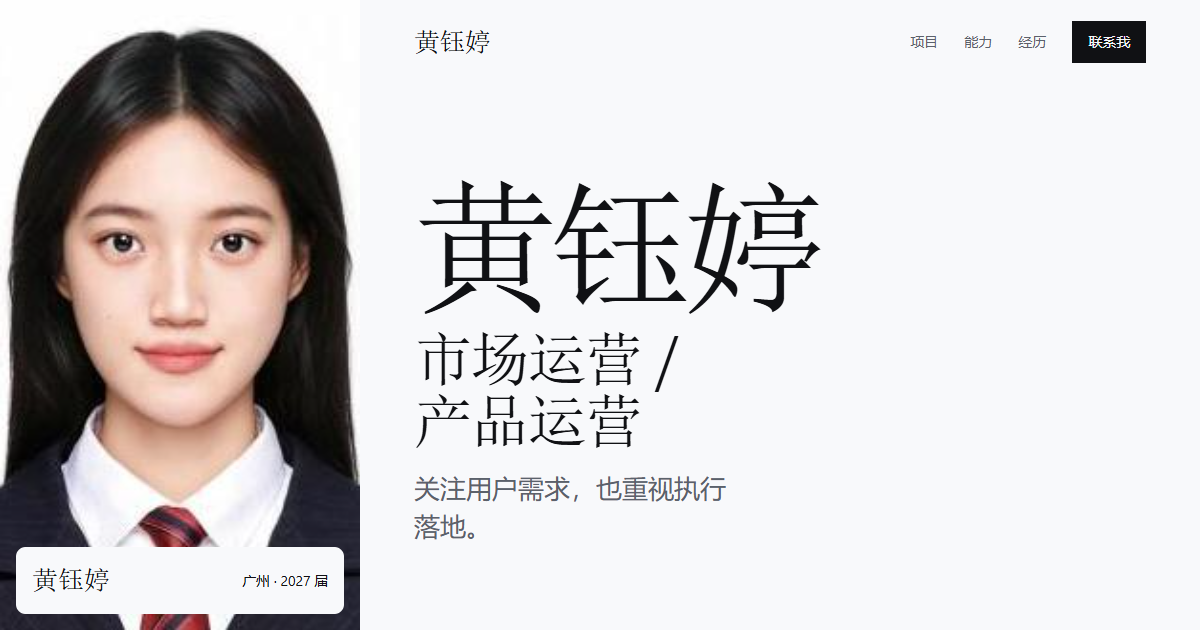
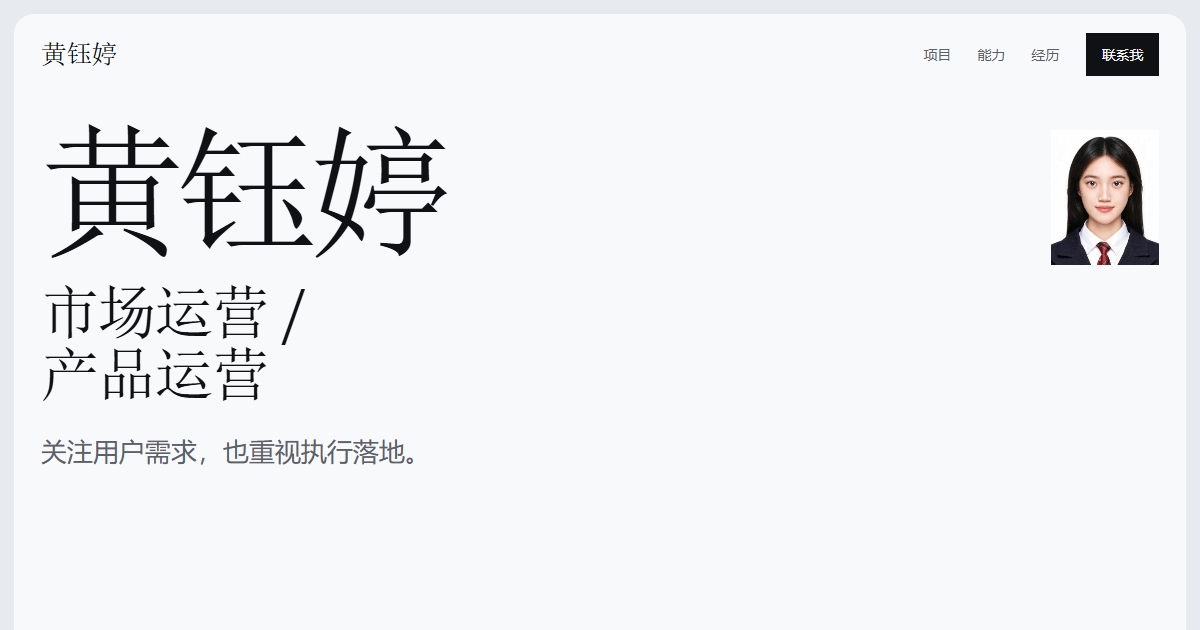
Use single small portrait and add email action

diff --git a/styles.css b/styles.css
@@ -106,78 +106,13 @@ figure {
 }
 
 .site {
-  display: grid;
-  grid-template-columns: minmax(250px, 0.6fr) minmax(0, 1.4fr);
-  gap: var(--gap);
-  width: min(calc(100% - (var(--margin) * 2)), 1760px);
+  display: block;
+  width: min(calc(100% - (var(--margin) * 2)), 74rem);
   margin: var(--margin) auto;
-  align-items: start;
-}
-
-.visual-panel {
-  position: sticky;
-  top: var(--margin);
-  overflow: clip;
-  height: calc(100svh - (var(--margin) * 2));
-  min-height: 34rem;
-  border-radius: var(--radius);
-  background: var(--surface);
-}
-
-.scene-stack,
-.scene {
-  position: absolute;
-  inset: 0;
-}
-
-.scene {
-  opacity: 0;
-  transition: opacity 1200ms var(--ease-out);
-}
-
-.scene.is-active {
-  opacity: 1;
-}
-
-.scene img {
-  width: 100%;
-  height: 100%;
-  object-fit: cover;
-  object-position: center 18%;
-}
-
-.scene:nth-child(2) img,
-.scene:nth-child(3) img {
-  object-position: center 34%;
-}
-
-.scene:nth-child(4) img {
-  object-position: center 42%;
-}
-
-.visual-caption {
-  position: absolute;
-  right: 1rem;
-  bottom: 1rem;
-  left: 1rem;
-  z-index: 2;
-  display: flex;
-  align-items: center;
-  justify-content: space-between;
-  gap: 1rem;
-  padding: 0.85rem 1rem;
-  border-radius: 0.6rem;
-  background: var(--panel);
-  color: var(--ink);
-  font-size: var(--step-small);
-}
-
-.visual-caption span:first-child {
-  font-family: var(--font-display);
-  font-size: var(--step-lead);
 }
 
 .reading-panel {
+  width: 100%;
   min-width: 0;
   overflow: visible;
   border-radius: var(--radius);
@@ -248,14 +183,23 @@ figure {
 }
 
 .hero {
-  display: flex;
+  display: grid;
+  grid-template-columns: minmax(0, 1fr) clamp(6.5rem, 9vw, 8.5rem);
+  grid-template-areas:
+    "name portrait"
+    "title portrait"
+    "summary portrait"
+    "actions portrait"
+    "proof proof"
+    "location location";
+  column-gap: clamp(1.5rem, 4vw, 3.5rem);
+  align-items: start;
   min-height: calc(100svh - 10rem);
-  flex-direction: column;
-  justify-content: center;
   padding: clamp(4rem, 10vh, 7rem) 0 clamp(4rem, 8vh, 6rem);
 }
 
 .hero-name {
+  grid-area: name;
   font-family: var(--font-display);
   font-size: var(--step-display);
   font-weight: 500;
@@ -264,6 +208,7 @@ figure {
 }
 
 .hero h1 {
+  grid-area: title;
   overflow: clip;
   max-width: 12ch;
   margin-top: 1rem;
@@ -275,7 +220,23 @@ figure {
   text-wrap: balance;
 }
 
+.hero-portrait {
+  grid-area: portrait;
+  width: 100%;
+  overflow: clip;
+  background: var(--surface);
+}
+
+.hero-portrait img {
+  width: 100%;
+  height: auto;
+  aspect-ratio: 4 / 5;
+  object-fit: cover;
+  object-position: center top;
+}
+
 .hero-summary {
+  grid-area: summary;
   max-width: 28ch;
   margin-top: 1rem;
   color: var(--muted);
@@ -285,6 +246,7 @@ figure {
 }
 
 .hero-actions {
+  grid-area: actions;
   display: flex;
   flex-wrap: wrap;
   align-items: center;
@@ -339,6 +301,7 @@ figure {
 }
 
 .proof {
+  grid-area: proof;
   display: grid;
   grid-template-columns: repeat(3, minmax(0, 1fr));
   gap: 1.5rem;
@@ -363,6 +326,7 @@ figure {
 }
 
 .hero-location {
+  grid-area: location;
   margin-top: 2rem;
   color: var(--muted);
   font-size: var(--step-small);
@@ -659,13 +623,6 @@ figure {
     animation-delay: 450ms;
   }
 
-  @supports (animation-timeline: view()) {
-    .visual-panel img {
-      animation: image-drift linear both;
-      animation-timeline: view();
-      animation-range: entry 0% exit 100%;
-    }
-  }
 }
 
 @keyframes content-rise {
@@ -679,30 +636,10 @@ figure {
   }
 }
 
-@keyframes image-drift {
-  from {
-    transform: scale(1.01) translateY(-1.5%);
-  }
-  to {
-    transform: scale(1.03) translateY(1.5%);
-  }
-}
-
 @media (max-width: 980px) {
   .site {
     display: block;
     width: min(calc(100% - (var(--margin) * 2)), 54rem);
-  }
-
-  .visual-panel {
-    position: relative;
-    top: auto;
-    height: 38svh;
-    min-height: 19rem;
-  }
-
-  .reading-panel {
-    margin-top: var(--gap);
   }
 
   .hero {
@@ -783,20 +720,16 @@ figure {
     padding: 0.75rem 1rem;
   }
 
-  .visual-panel {
-    height: 30svh;
-    min-height: 15.5rem;
-  }
-
-  .visual-caption {
-    right: 0.75rem;
-    bottom: 0.75rem;
-    left: 0.75rem;
-    padding: 0.7rem 0.8rem;
-  }
-
   .hero {
+    display: flex;
+    flex-direction: column;
     padding: 4.5rem 0 5.5rem;
+  }
+
+  .hero-portrait {
+    order: -1;
+    width: clamp(4.75rem, 24vw, 6.25rem);
+    margin-bottom: 1.5rem;
   }
 
   .hero-summary {
@@ -897,7 +830,6 @@ figure {
 }
 
 @media print {
-  .visual-panel,
   .topbar,
   .hero-actions,
   .toast {

diff --git a/index.html b/index.html
@@ -25,27 +25,6 @@
   <a class="skip-link" href="#main-content">跳到主要内容</a>
 
   <div class="site">
-    <aside class="visual-panel" aria-label="黄钰婷的照片">
-      <div class="scene-stack">
-        <figure class="scene is-active" data-photo="hero">
-          <img src="assets/portrait.jpg" alt="黄钰婷的个人照片" width="256" height="329" fetchpriority="high">
-        </figure>
-        <figure class="scene" data-photo="face" aria-hidden="true">
-          <img src="assets/portrait-face.jpg" alt="" width="640" height="800" loading="lazy">
-        </figure>
-        <figure class="scene" data-photo="tie" aria-hidden="true">
-          <img src="assets/portrait-tie.jpg" alt="" width="640" height="800" loading="lazy">
-        </figure>
-        <figure class="scene" data-photo="lapel" aria-hidden="true">
-          <img src="assets/portrait-lapel.jpg" alt="" width="640" height="800" loading="lazy">
-        </figure>
-      </div>
-      <div class="visual-caption">
-        <span>黄钰婷</span>
-        <span>广州 · 2027 届</span>
-      </div>
-    </aside>
-
     <div class="reading-panel">
       <header class="topbar">
         <a class="wordmark" href="#home">黄钰婷</a>
@@ -61,9 +40,12 @@
       </header>
 
       <main id="main-content">
-        <section class="hero" id="home" data-visual="hero" aria-labelledby="hero-title">
+        <section class="hero" id="home" aria-labelledby="hero-title">
           <p class="hero-name">黄钰婷</p>
           <h1 id="hero-title">市场运营 / 产品运营</h1>
+          <figure class="hero-portrait">
+            <img src="assets/portrait.jpg" alt="黄钰婷的个人照片" width="256" height="329" fetchpriority="high">
+          </figure>
           <p class="hero-summary">关注用户需求，也重视执行落地。</p>
           <div class="hero-actions">
             <a class="button" href="#projects">查看项目</a>
@@ -86,7 +68,7 @@
           <p class="hero-location">广州 · 2027 届</p>
         </section>
 
-        <section class="section about" id="about" data-visual="face" aria-labelledby="about-title">
+        <section class="section about" id="about" aria-labelledby="about-title">
           <div class="about-grid">
             <h2 id="about-title">路径</h2>
             <p class="about-copy">
@@ -95,7 +77,7 @@
           </div>
         </section>
 
-        <section class="section projects" id="projects" data-visual="tie" aria-labelledby="projects-title">
+        <section class="section projects" id="projects" aria-labelledby="projects-title">
           <div class="section-heading">
             <h2 id="projects-title">项目</h2>
           </div>
@@ -154,7 +136,7 @@
           </div>
         </section>
 
-        <section class="skills field-dark" id="skills" data-visual="lapel" aria-labelledby="skills-title">
+        <section class="skills field-dark" id="skills" aria-labelledby="skills-title">
           <h2 id="skills-title">能力</h2>
           <dl class="skill-list">
             <div>
@@ -176,7 +158,7 @@
           </dl>
         </section>
 
-        <section class="section experience" id="experience" data-visual="face" aria-labelledby="experience-title">
+        <section class="section experience" id="experience" aria-labelledby="experience-title">
           <h2 id="experience-title">经历</h2>
           <div class="experience-list">
             <article>
@@ -210,11 +192,12 @@
           </div>
         </section>
 
-        <section class="contact field-dark" id="contact" data-visual="tie" aria-labelledby="contact-title">
+        <section class="contact field-dark" id="contact" aria-labelledby="contact-title">
           <h2 id="contact-title">联系我</h2>
           <p class="contact-note">市场运营 / 产品运营 · 广州</p>
           <div class="contact-actions">
             <a class="contact-email" href="mailto:13289885620@163.com">13289885620@163.com</a>
+            <a class="button" href="mailto:13289885620@163.com">发送邮件</a>
             <button class="copy-button" type="button" data-copy-email="13289885620@163.com">
               复制邮箱
             </button>

diff --git a/script.js b/script.js
@@ -2,8 +2,9 @@ const prefersReducedMotion = window.matchMedia("(prefers-reduced-motion: reduce)
 const menuButton = document.querySelector(".menu-toggle");
 const navigation = document.querySelector(".site-nav");
 const navLinks = [...document.querySelectorAll(".site-nav a")];
-const visualSections = [...document.querySelectorAll("[data-visual]")];
-const scenes = [...document.querySelectorAll(".scene")];
+const navSections = [...document.querySelectorAll("main section[id]")].filter((section) =>
+  navLinks.some((link) => link.getAttribute("href") === `#${section.id}`),
+);
 
 const closeMenu = () => {
   if (!menuButton || !navigation) return;
@@ -44,21 +45,14 @@ const setCurrentNavigation = (id) => {
   });
 };
 
-const setActiveScene = (name) => {
-  scenes.forEach((scene) => {
-    scene.classList.toggle("is-active", scene.dataset.photo === name);
-  });
-};
-
-if ("IntersectionObserver" in window && visualSections.length) {
-  const sceneObserver = new IntersectionObserver(
+if ("IntersectionObserver" in window && navSections.length) {
+  const sectionObserver = new IntersectionObserver(
     (entries) => {
       const visibleEntry = entries
         .filter((entry) => entry.isIntersecting)
         .sort((a, b) => b.intersectionRatio - a.intersectionRatio)[0];
 
       if (!visibleEntry) return;
-      setActiveScene(visibleEntry.target.dataset.visual);
       setCurrentNavigation(visibleEntry.target.id);
     },
     {
@@ -67,7 +61,7 @@ if ("IntersectionObserver" in window && visualSections.length) {
     },
   );
 
-  visualSections.forEach((section) => sceneObserver.observe(section));
+  navSections.forEach((section) => sectionObserver.observe(section));
 }
 
 const revealSelectors = [
